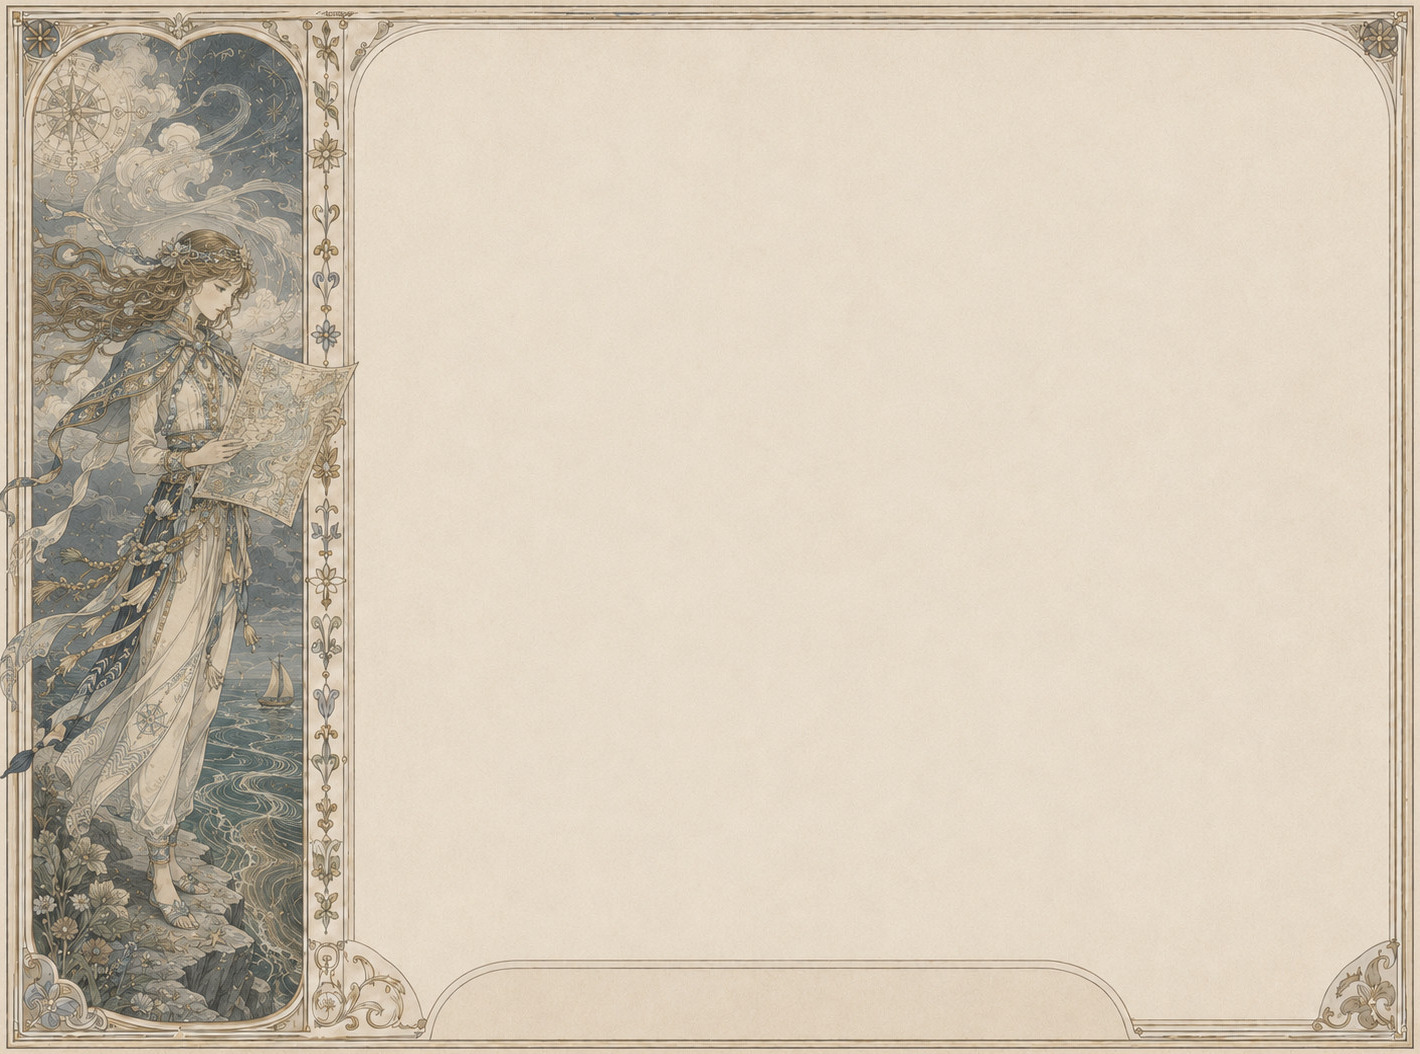
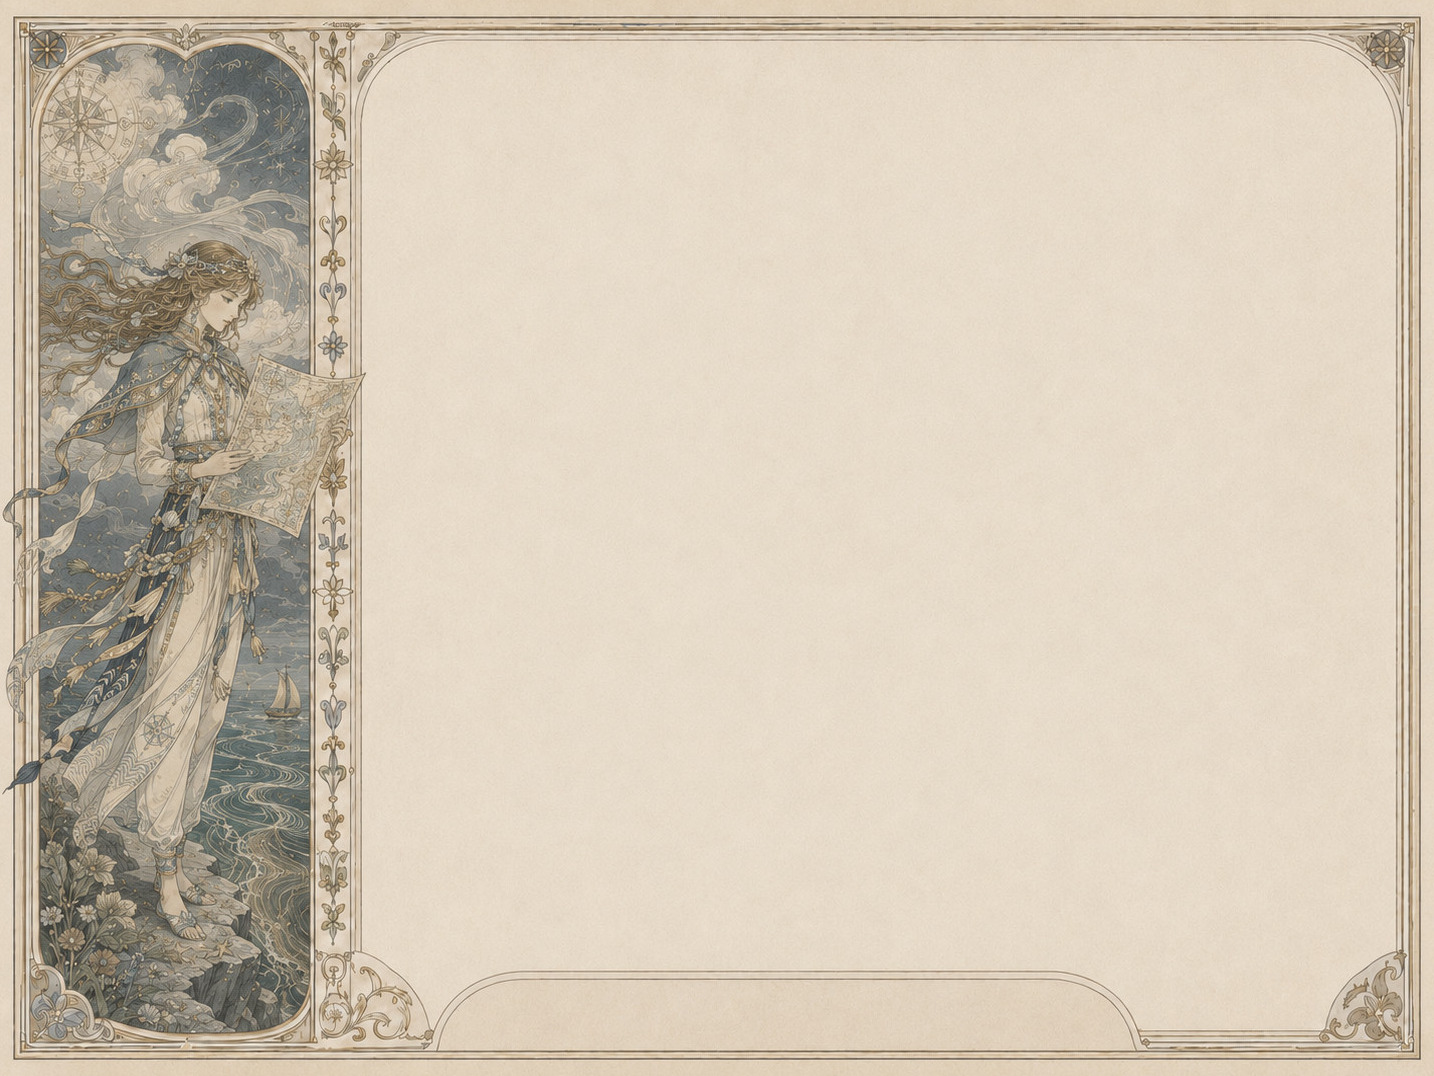
Drop the .page border line; new save/load bg; restore oceans with gentler crop
USER FEEDBACK
  '你为啥给 reading 的左右两边描边了 我希望我们的左右两边的纯色底
   能伪装成出血边'
  - The visible seam between painted bg and side letterbox was an
    INSET 1 px box-shadow on .page plus the .page::before /
    .page::after decorative borders. Both gone:
      .page  box-shadow: 0 30px 80px rgba(...), 0 0 0 1px inset
             → background: transparent; no border, no shadow.
      .page::before, ::after { content: none }
    The painted bg now sits directly on the body parchment with no
    ring around it — the side letterbox reads as a continuation
    of the painted bleed instead of as 'the edge of an image'.

  'oceans 章的背景图裁多了 导致女孩的衣角被裁减'
  - Re-cropped oceans.jpg with much gentler ratios (0.5% all
    sides vs the 1% L/R + 1.5% T/B applied earlier). Restored
    the original from git history first so we're cropping from
    the raw source, not from an already-cropped copy. Princess's
    dress hem stays inside the frame.

SAVE / LOAD — new painted bg + real bottom nav
  User uploaded IMG_5957.jpeg (the page-blank.jpg replacement)
  with the bottom BACK / MENU plaques REMOVED so the site can
  draw its own buttons. Wired up:
    cp IMG_5957.jpeg → assets/bg/ui/page-blank.jpg
    re-encoded q92 + 4:4:4 (1.95 MB → 484 KB).
  save.html / load.html now use the standard .ui-bottom-nav
  with two buttons (Back ‹ / Menu ✤) styled by the existing nav
  CSS instead of invisible hit-zones. Added --nav-* vars in
  pages.css for [data-page='save'] and [data-page='load']
[…]

Changed region(s): [[0.0, 0.0, 1.0, 1.0], [0.3718, 0.8805, 0.7437, 0.9412], [0.7437, 0.9108, 0.7746, 0.9412]]

diff --git a/save.html b/save.html
@@ -14,49 +14,35 @@
   .page.save-art {
     background-image: url("assets/bg/ui/page-blank.jpg");
   }
-  /* The painted page-blank.jpg already has:
-       - top centre banner (empty — for our "Save" title)
-       - bottom centre painted BACK / MENU plaques
-     We OVERLAY only the title text inside the banner + the slot
-     grid in the empty middle area + invisible hit-zones on the
-     painted BACK / MENU labels (no duplicate HTML labels). */
+  /* The new painted save/load bg has the bottom plaques REMOVED
+     (user erased them) — so we paint a real bottom nav with the
+     site-wide .ui-bottom-nav component. The empty top banner is
+     still painted; we just write the SAVE / LOAD title inside it. */
   .save-banner-title {
     position: absolute;
-    left: 30%; top: 5.5%;
-    width: 40%; height: 6%;
+    left: 28%; top: 5.5%;
+    width: 44%; height: 6%;
     display: flex;
     align-items: center;
     justify-content: center;
     pointer-events: none;
     font-family: var(--font-display);
-    font-size: 26px;
-    letter-spacing: 0.18em;
+    font-size: 28px;
+    letter-spacing: 0.20em;
     text-transform: uppercase;
     color: var(--accent-wine);
     z-index: 5;
   }
   .save-slot-grid {
     position: absolute;
-    left: 18%; top: 18%;
-    width: 64%; height: 65%;
+    left: 16%; top: 18%;
+    width: 68%; height: 67%;
     display: grid;
     grid-template-columns: repeat(2, 1fr);
     grid-auto-rows: 1fr;
-    gap: 16px 24px;
+    gap: 18px 28px;
     z-index: 4;
   }
-  /* Invisible hit-zones over the painted BACK / MENU labels. */
-  .save-hit-back, .save-hit-menu {
-    position: absolute;
-    width: 12%;  height: 5%;
-    top: 88%;
-    background: transparent;
-    border: 0;
-    cursor: pointer;
-    z-index: 6;
-  }
-  .save-hit-back { left: 32%; }
-  .save-hit-menu { left: 56%; }
 </style>
 </head>
 <body>
@@ -64,8 +50,14 @@
   <main class="page art-bg save-art theme-save" data-page="save">
     <h1 class="save-banner-title">Save</h1>
     <div class="save-slot-grid slot-grid" data-mode="save"></div>
-    <button type="button" class="save-hit-back" onclick="go('select.html')" aria-label="Back"></button>
-    <button type="button" class="save-hit-menu" onclick="go('menu.html')"   aria-label="Menu"></button>
+    <nav class="ui-bottom-nav is-two">
+      <button type="button" onclick="go('select.html')">
+        <span class="nav-glyph">‹</span>Back
+      </button>
+      <button type="button" onclick="go('menu.html')">
+        <span class="nav-glyph">✤</span>Menu
+      </button>
+    </nav>
   </main>
 </div>
 

diff --git a/css/layout.css b/css/layout.css
@@ -38,30 +38,19 @@
 
 .page {
   position: absolute;
-  /* Anchored to the stage's top-left; scaled by JS so the full
-     1448×1086 painted page fits the stage exactly. No master-
-     frame bleed offset — the user's UI sits slightly inside the
-     master container, so a crop at the master edges was eating
-     into it. */
   left: 0;
   top: 0;
   width: 1448px;
   height: 1086px;
   transform-origin: top left;
   transform: scale(1);
-  background-color: var(--paper-warm);
-  background-image:
-    radial-gradient(ellipse at 30% 20%, rgba(255, 245, 220, 0.55) 0%, transparent 60%),
-    radial-gradient(ellipse at 70% 80%, rgba(120, 95, 55, 0.10) 0%, transparent 65%),
-    repeating-linear-gradient(
-      135deg,
-      rgba(150, 120, 70, 0.025) 0 2px,
-      transparent 2px 5px
-    );
-  border-radius: var(--page-radius);
-  box-shadow:
-    0 30px 80px rgba(0, 0, 0, 0.18),
-    0 0 0 1px rgba(120, 95, 55, 0.30) inset;
+  /* No background — the painted bg is set per-page on .page.art-bg
+     and we DON'T want a 'card' bg color leaking through if the
+     painted image has any partial transparency or anti-aliased
+     edge pixels. No border, no box-shadow either: user wants the
+     painted page to look as if it sits ON the body parchment
+     directly, with zero visible seam at the side letterbox. */
+  background: transparent;
   overflow: hidden;
 }
 
@@ -89,24 +78,12 @@
   pointer-events: none;
 }
 
-/* Decorative double frame inside every page */
+/* The CSS-drawn double frame inside every .page is no longer
+   drawn. The painted bgs themselves carry whatever frame the
+   user wants; an additional thin CSS border was creating a
+   visible 'edge of an image' seam on the side letterbox. */
 .page::before,
-.page::after {
-  content: "";
-  position: absolute;
-  pointer-events: none;
-  border: var(--frame-border);
-}
-.page::before {
-  inset: 22px;
-  border-color: var(--paper-frame);
-  opacity: 0.55;
-}
-.page::after {
-  inset: 30px;
-  border: var(--frame-border-soft);
-  opacity: 0.35;
-}
+.page::after { content: none; }
 
 /* ----- Page-level shells ----- */
 .page-inner {

diff --git a/load.html b/load.html
@@ -14,44 +14,31 @@
   .page.load-art {
     background-image: url("assets/bg/ui/page-blank.jpg");
   }
-  /* Same banner-title + slot-grid + hit-zones as save.html, just
-     a different accent colour (blue instead of wine). */
   .save-banner-title {
     position: absolute;
-    left: 30%; top: 5.5%;
-    width: 40%; height: 6%;
+    left: 28%; top: 5.5%;
+    width: 44%; height: 6%;
     display: flex;
     align-items: center;
     justify-content: center;
     pointer-events: none;
     font-family: var(--font-display);
-    font-size: 26px;
-    letter-spacing: 0.18em;
+    font-size: 28px;
+    letter-spacing: 0.20em;
     text-transform: uppercase;
     color: var(--accent-blue);
     z-index: 5;
   }
   .save-slot-grid {
     position: absolute;
-    left: 18%; top: 18%;
-    width: 64%; height: 65%;
+    left: 16%; top: 18%;
+    width: 68%; height: 67%;
     display: grid;
     grid-template-columns: repeat(2, 1fr);
     grid-auto-rows: 1fr;
-    gap: 16px 24px;
+    gap: 18px 28px;
     z-index: 4;
   }
-  .save-hit-back, .save-hit-menu {
-    position: absolute;
-    width: 12%;  height: 5%;
-    top: 88%;
-    background: transparent;
-    border: 0;
-    cursor: pointer;
-    z-index: 6;
-  }
-  .save-hit-back { left: 32%; }
-  .save-hit-menu { left: 56%; }
 </style>
 </head>
 <body>
@@ -59,8 +46,14 @@
   <main class="page art-bg load-art theme-load" data-page="load">
     <h1 class="save-banner-title">Load</h1>
     <div class="save-slot-grid slot-grid" data-mode="load"></div>
-    <button type="button" class="save-hit-back" onclick="go('select.html')" aria-label="Back"></button>
-    <button type="button" class="save-hit-menu" onclick="go('menu.html')"   aria-label="Menu"></button>
+    <nav class="ui-bottom-nav is-two">
+      <button type="button" onclick="go('select.html')">
+        <span class="nav-glyph">‹</span>Back
+      </button>
+      <button type="button" onclick="go('menu.html')">
+        <span class="nav-glyph">✤</span>Menu
+      </button>
+    </nav>
   </main>
 </div>
 

diff --git a/css/pages.css b/css/pages.css
@@ -913,6 +913,16 @@
   --nav-width:  30.00%;
   --nav-height:  6.50%;
 }
+/* Save / Load — bottom nav lives in the cleared bottom strip of
+   page-blank.jpg (user erased the painted BACK / MENU plaques). */
+.page[data-page="save"],
+.page[data-page="load"] {
+  --nav-count:  2;
+  --nav-left:   30.00%;
+  --nav-top:    89.00%;
+  --nav-width:  40.00%;
+  --nav-height:  6.50%;
+}
 
 /* ============================================================
    CHAPTERS (Table of Contents) — text + plaque inside each slot
